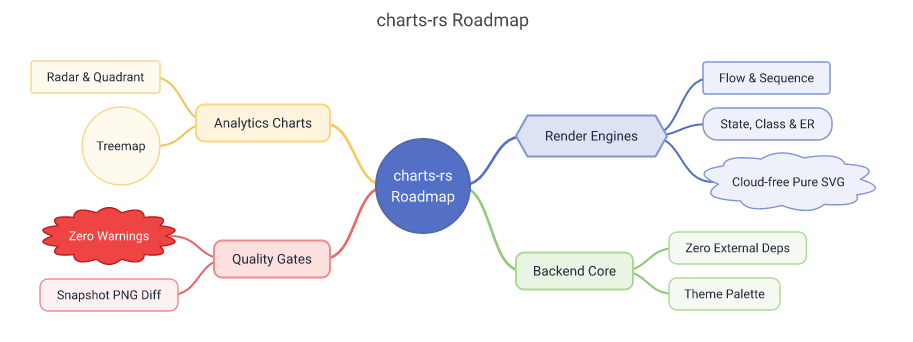
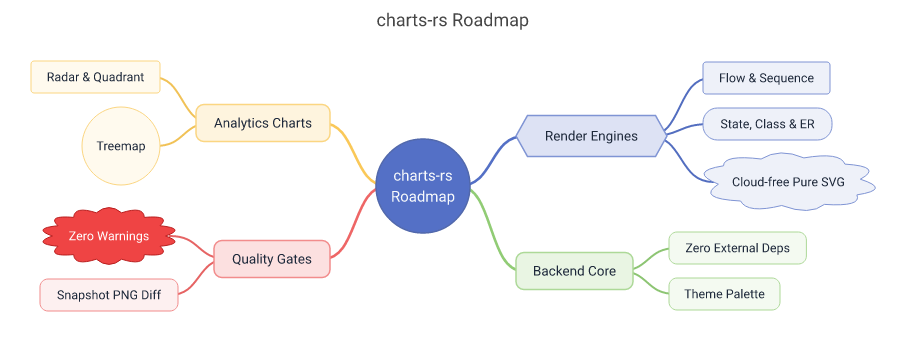
feat(mermaid): polish sequence, gantt, mindmap and quadrant styling
Phase 6 of docs/mermaid-beautify-plan.md: sequence fragments no longer
straddle participant box borders (they stay inside or enclose the box),
thinner strokes and left-aligned muted box titles; gantt done tasks keep a
faded section color and the legend uses solid swatches so colors match;
mindmap and quadrant adopt the thinner stroke widths.

diff --git a/src/charts/mermaid/sequence.rs b/src/charts/mermaid/sequence.rs
@@ -22,7 +22,9 @@ use super::super::theme::get_theme;
 use super::super::util::{Point, format_float};
 use super::MermaidChart;
 use super::preprocess::{MermaidInitConfig, SourceLine};
-use super::style::{MermaidPalette, mix_color, parse_css_color};
+use super::style::{
+    EDGE_STROKE_WIDTH, MermaidPalette, NODE_RADIUS, NODE_STROKE_WIDTH, mix_color, parse_css_color,
+};
 use super::text::{FormattedText, draw_multiline_text, format_and_measure};
 
 const PARTICIPANT_PAD_X: f32 = 16.0;
@@ -718,7 +720,7 @@ fn draw_actor_icon(c: &mut Canvas, cx: f32, top_y: f32, fill: Color, stroke: Col
         r: head_r,
         fill: Some(fill),
         stroke_color: Some(stroke),
-        stroke_width: 1.6,
+        stroke_width: 1.2,
         ..Default::default()
     });
     let neck_y = head_cy + head_r;
@@ -733,7 +735,7 @@ fn draw_actor_icon(c: &mut Canvas, cx: f32, top_y: f32, fill: Color, stroke: Col
     ] {
         c.line(Line {
             color: Some(stroke),
-            stroke_width: 1.6,
+            stroke_width: 1.2,
             left: x1,
             top: y1,
             right: x2,
@@ -762,11 +764,11 @@ fn draw_participant_box(
                 top: top_y,
                 width: box_w,
                 height: box_h,
-                rx: Some(4.0),
-                ry: Some(4.0),
+                rx: Some(NODE_RADIUS),
+                ry: Some(NODE_RADIUS),
                 fill: Some(palette.node_fill.into()),
                 color: Some(palette.node_stroke),
-                stroke_width: Some(1.6),
+                stroke_width: Some(NODE_STROKE_WIDTH),
                 ..Default::default()
             });
             draw_multiline_text(
@@ -1059,6 +1061,26 @@ pub(crate) fn render(
 
     let mut act_stacks: Vec<Vec<f32>> = vec![Vec::new(); n];
     let mut act_spans: Vec<ActivationSpan> = Vec::new();
+    // Horizontal spans of participant `box` groups (as drawn below), used to
+    // keep combined-fragment frames from cutting through a box border.
+    let box_spans: Vec<(f32, f32)> = seq
+        .boxes
+        .iter()
+        .filter(|b| !b.members.is_empty())
+        .map(|b| {
+            let lo = b
+                .members
+                .iter()
+                .map(|&m| col_x[m] - p_widths[m] * 0.5)
+                .fold(f32::MAX, f32::min);
+            let hi = b
+                .members
+                .iter()
+                .map(|&m| col_x[m] + p_widths[m] * 0.5)
+                .fold(f32::MIN, f32::max);
+            (lo - 8.0, hi + 8.0)
+        })
+        .collect();
     let mut active_blocks: Vec<LaidOutBlock> = Vec::new();
     let mut finished_blocks: Vec<LaidOutBlock> = Vec::new();
     let mut positioned_events: Vec<PositionedEvent> = Vec::new();
@@ -1167,6 +1189,25 @@ pub(crate) fn render(
                             right = (left + min_label_w).min(content_w_inner - CANVAS_PAD);
                             if right - left < min_label_w {
                                 left = (right - min_label_w).max(CANVAS_PAD);
+                            }
+                        }
+                        // A frame either stays inside a box (with margin) or
+                        // fully encloses it; never straddle a box border.
+                        const BOX_CLEAR: f32 = 8.0;
+                        for _ in 0..=box_spans.len() {
+                            let mut changed = false;
+                            for &(bl, br) in &box_spans {
+                                let overlaps = left < br && right > bl;
+                                let inside = left >= bl + BOX_CLEAR && right <= br - BOX_CLEAR;
+                                let encloses = left <= bl - BOX_CLEAR && right >= br + BOX_CLEAR;
+                                if overlaps && !inside && !encloses {
+                                    left = left.min(bl - BOX_CLEAR).max(2.0);
+                                    right = right.max(br + BOX_CLEAR);
+                                    changed = true;
+                                }
+                            }
+                            if !changed {
+                                break;
                             }
                         }
                         b.left = left;
@@ -1446,24 +1487,24 @@ pub(crate) fn render(
             top: by,
             width: bw,
             height: bh,
-            rx: Some(4.0),
-            ry: Some(4.0),
+            rx: Some(8.0),
+            ry: Some(8.0),
             fill: Some(fill.into()),
             color: Some(palette.subgraph_stroke),
             stroke_width: Some(1.0),
             ..Default::default()
         });
         if !b.title.is_empty() {
-            let title_ft = format_and_measure(&b.title, &font_family, 12.5);
+            let title_ft = format_and_measure(&b.title, &font_family, 12.0);
             draw_multiline_text(
                 &mut content_canvas,
-                bx + bw * 0.5,
+                bx + 10.0,
                 by + 13.0,
                 &title_ft,
                 &font_family,
-                12.5,
-                palette.text_color,
-                "middle",
+                12.0,
+                palette.muted_text,
+                "start",
                 true,
             );
         }
@@ -1495,7 +1536,7 @@ pub(crate) fn render(
         if end_y > start_y {
             content_canvas.line(Line {
                 color: Some(palette.edge_stroke),
-                stroke_width: 1.2,
+                stroke_width: 1.0,
                 left: col_x[i],
                 top: start_y,
                 right: col_x[i],
@@ -1517,7 +1558,7 @@ pub(crate) fn render(
             ry: Some(2.0),
             fill: Some(palette.activation_fill.into()),
             color: Some(palette.node_stroke),
-            stroke_width: Some(1.2),
+            stroke_width: Some(1.0),
             ..Default::default()
         });
     }
@@ -1680,7 +1721,7 @@ pub(crate) fn render(
                         d,
                         fill: None,
                         stroke: Some(palette.edge_stroke),
-                        stroke_width: 1.6,
+                        stroke_width: EDGE_STROKE_WIDTH,
                         stroke_dash_array: dash,
                         stroke_linejoin: Some("round"),
                         ..Default::default()
@@ -1713,7 +1754,7 @@ pub(crate) fn render(
                     }
                     content_canvas.line(Line {
                         color: Some(palette.edge_stroke),
-                        stroke_width: 1.6,
+                        stroke_width: EDGE_STROKE_WIDTH,
                         left: x1,
                         top: *y,
                         right: x2,

diff --git a/src/charts/mermaid/adapters/gantt.rs b/src/charts/mermaid/adapters/gantt.rs
@@ -13,6 +13,7 @@
 //! Mermaid `gantt` diagram adapter -> [`GanttChart`](crate::GanttChart).
 
 use super::super::super::color::{Color, get_color};
+use super::super::super::component::LegendCategory;
 use super::super::super::error::{Error, Result};
 use super::super::super::gantt_chart::{GanttChart, GanttMarker, GanttTask};
 use super::super::super::theme::get_theme;
@@ -739,6 +740,14 @@ pub(crate) fn render(
         }
     }
 
+    let section_color = |t: &ParsedTask| -> Color {
+        let cat_idx = t
+            .section
+            .as_deref()
+            .and_then(|s| sections.iter().position(|c| c == s))
+            .unwrap_or(sections.len());
+        get_color(&theme.series.colors, cat_idx)
+    };
     let mut tasks: Vec<GanttTask> = Vec::new();
     let mut vertical_markers: Vec<GanttMarker> = Vec::new();
     for (t, span) in parsed_tasks.into_iter().zip(resolved) {
@@ -755,16 +764,14 @@ pub(crate) fn render(
             (true, true, _) => Some(crit_done_fill),
             (true, false, true) => Some(crit_active_fill),
             (true, false, false) => Some(crit_fill),
-            (false, true, _) => Some(done_fill),
-            (false, false, true) => {
-                let cat_idx = t
-                    .section
-                    .as_deref()
-                    .and_then(|s| sections.iter().position(|c| c == s))
-                    .unwrap_or(sections.len());
-                let base = get_color(&theme.series.colors, cat_idx);
-                Some(mix_color(base, Color::from((255, 255, 255)), 0.28))
-            }
+            // Done tasks keep their section color (so the legend still
+            // matches) but fade toward the background.
+            (false, true, _) => Some(mix_color(section_color(&t), bg, 0.55)),
+            (false, false, true) => Some(mix_color(
+                section_color(&t),
+                Color::from((255, 255, 255)),
+                0.28,
+            )),
             (false, false, false) => None,
         };
         tasks.push(GanttTask {
@@ -803,6 +810,10 @@ pub(crate) fn render(
         680.0,
         default_height,
     );
+    // Solid swatches read as "this bar color" better than line+dot markers.
+    if gantt.legend.category == LegendCategory::Normal {
+        gantt.legend.category = LegendCategory::RoundRect;
+    }
     let (w, h) = (gantt.width, gantt.height);
     Ok((gantt.svg()?, w, h))
 }

diff --git a/src/charts/mermaid/quadrant.rs b/src/charts/mermaid/quadrant.rs
@@ -502,7 +502,7 @@ pub(crate) fn render(
         right: mid_x,
         bottom: plot_bottom,
         color: Some(axis_stroke),
-        stroke_width: 1.3,
+        stroke_width: 1.0,
         stroke_dash_array: Some("4,4".to_string()),
     });
     cc.line(Line {
@@ -511,7 +511,7 @@ pub(crate) fn render(
         right: plot_right,
         bottom: mid_y,
         color: Some(axis_stroke),
-        stroke_width: 1.3,
+        stroke_width: 1.0,
         stroke_dash_array: Some("4,4".to_string()),
     });
 
@@ -523,7 +523,7 @@ pub(crate) fn render(
         height: plot_h,
         fill: Some(Color::transparent().into()),
         color: Some(palette.node_stroke),
-        stroke_width: Some(1.6),
+        stroke_width: Some(1.0),
         ..Default::default()
     });
 

diff --git a/src/charts/mermaid/mindmap.rs b/src/charts/mermaid/mindmap.rs
@@ -773,7 +773,7 @@ pub(crate) fn render(
         let stroke = eff_style.stroke.unwrap_or(default_stroke);
         let stroke_w = eff_style
             .stroke_width
-            .unwrap_or(if node.depth <= 1 { 2.0 } else { 1.4 });
+            .unwrap_or(if node.depth <= 1 { 1.5 } else { 1.0 });
         let text_color = eff_style.color.unwrap_or_else(|| contrast_text(fill));
         let left = cx - m.w * 0.5;
         let top = cy - m.h * 0.5;

diff --git a/docs/mermaid-beautify-plan.md b/docs/mermaid-beautify-plan.md
@@ -5,6 +5,7 @@
 >
 > - 制定日期：2026-11-24
 > - 基线：`v2.4.0`（`8e22ccb`）
+> - 实施状态（2026-11-24）：六个阶段全部完成——① `c576db6` 配色与样式、② `e9543d2` 端口 + 正交路由、③ `e93aa40` Brandes-Köpf、④ `c556662` median + transpose、⑤ `3240674` M-07 子图方向、⑥ sequence / gantt / mindmap / quadrant（本提交）。未做：sequence 参与者头部压缩、gantt 任务名放进条内（10.2 第 3 项，可选）、正交轨道过多时自动扩大层间距。
 > - 视觉参考：[lukilabs/beautiful-mermaid](https://github.com/lukilabs/beautiful-mermaid)（ELK 正交路由 + 双色主题）。**目标不是复刻 Mermaid 官方外观**，而是做出 charts-rs 自己的、整洁的风格。
 
 ## 目录
